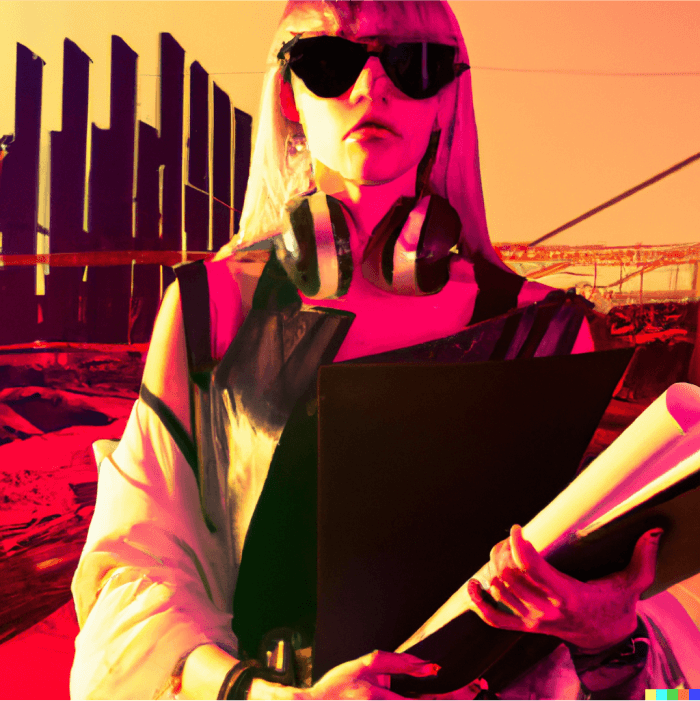
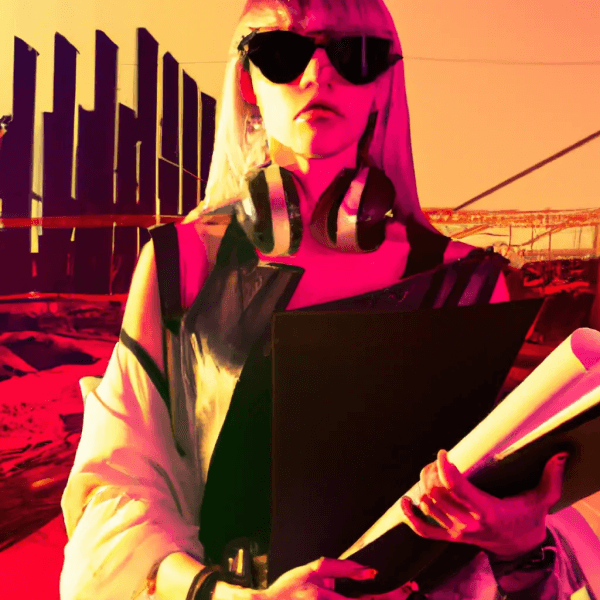
Swaps AI image for main spotlight image on Homepage and removes watermarks from all AI images

diff --git a/src/components/About.jsx b/src/components/About.jsx
@@ -7,6 +7,8 @@ import email_icon from "../img/email_icon.svg";
 import my_email from "../img/my_email.svg";
 import short_t from "../img/short_t.svg";
 import { Link } from "react-router-dom";
+import { isMobile } from "../utils";
+import glowing_shadow_portrait from "../img/glowing_shadow_portrait.png";
 
 class SocialButtons extends React.Component {
   constructor(props) {
@@ -93,7 +95,7 @@ class About extends React.Component {
   render() {
     return (
       <div className="about bg-black pb-5 flex-fill w-100">
-        <div style={{height: "3rem"}} />
+        <div style={{ height: "3rem" }} />
         <div className="row d-flex justify-content-center pt-md-5 px-3 pb-5 pb-md-2flex-fill w-100">
           <div className="d-none d-md-block col-6 mb-5 mb-md-0 col-md-6 col-lg-3 mr-lg-4">
             <img
@@ -103,23 +105,40 @@ class About extends React.Component {
             />
           </div>
           <div className="col-12 col-md-6 col-lg-4 d-flex align-items-center">
-            {/*<p>*/}
-            {/*I've worked up and down the product stack, from design research to writing code.*/}
-            {/*</p>*/}
-            {/*<p>*/}
-            {/*I'm a T-shaped product designer. Except my T looks more like this{" "}*/}
-            {/*<span>*/}
-            {/*<img src={short_t} className="img-fluid" />*/}
-            {/*</span>{" "}*/}
-            {/*than this{" "}*/}
-            {/*<span>*/}
-            {/*<img src={tall_t} className="img-fluid" />*/}
-            {/*</span>*/}
-            {/*</p>*/}
-            {/*<p>*/}
-            {/*A short T is nothing to be ashamed of. There are plenty of attractive,*/}
-            {/*young companies out there who gladly hire generalists.*/}
-            {/*</p>*/}
+            {/*<div className={`row d-flex align-items-center justify-content-around flex-fill w-100 ${*/}
+                {/*isMobile() ? "pt-5 mt-3" : "h-100"*/}
+              {/*}`}*/}
+            {/*>*/}
+              {/*<div className={`col-md-7`}>*/}
+                {/*<img*/}
+                  {/*src={glowing_shadow_portrait}*/}
+                  {/*style={{ maxWidth: "100%" }}*/}
+                {/*/>*/}
+              {/*</div>*/}
+              {/*<div className={`col-md-5 ${isMobile() ? "mt-5 pt-3" : ""}`}>*/}
+                {/*<div className="my-auto text-light px-4 mr-md-5">*/}
+                  {/*<h1 className="mb-0">*/}
+                    {/*<span className="text-nowrap page-header">*/}
+                      {/*Product designer*/}
+                    {/*</span>{" "}*/}
+                    {/*<span className="text-white"> +</span>*/}
+                  {/*</h1>{" "}*/}
+                  {/*<h1 className="mb-0 mb-md-3 page-header">*/}
+                    {/*Journalism survivor*/}
+                  {/*</h1>{" "}*/}
+                  {/*<h3 className="mt-3 text-gray">*/}
+                    {/*<div className="mb-2">*/}
+                      {/*<span>Interaction design | </span>*/}
+                      {/*<span className="text-nowrap">Systems design | </span>*/}
+                    {/*</div>*/}
+                    {/*<div>*/}
+                      {/*<span className="">Information architecture | </span>*/}
+                      {/*<span className="">Javascript </span>*/}
+                    {/*</div>*/}
+                  {/*</h3>*/}
+                {/*</div>*/}
+              {/*</div>*/}
+            {/*</div>*/}
 
             <div className="d-flex flex-column text-white">
               <p className="pt-5 p-md-0 mt-1">
@@ -129,9 +148,8 @@ class About extends React.Component {
                   className="rounded-lg float-left mr-3 d-md-none pt-2 p-md-0"
                   style={{ width: "45%" }}
                 />
-                <div>I never identified as a technical person.</div>
-                I was a humanities guy – obsessed with French and
-                Spanish.
+                <div>I never identified as a technical person.</div>I was a
+                humanities guy – obsessed with French and Spanish.
               </p>
               <p>
                 And then I realized JavaScript is just a language – a way to

diff --git a/src/components/Homepage.jsx b/src/components/Homepage.jsx
@@ -6,6 +6,7 @@ import { isMobile } from "../utils";
 import salamander from '../img/salamander.png';
 import { Link } from 'react-router-dom';
 import sad_worker from '../img/sad_worker.png';
+import survivor from '../img/survivor.png';
 
 const BIG_TEXT_STYLE = { lineHeight: "1rem" };
 class HomePage extends React.Component {
@@ -22,8 +23,8 @@ class HomePage extends React.Component {
               isMobile() ? "pt-5 mt-3" : "h-100"
             }`}
           >
-            <div className={`col-md-7`}>
-              <img src={glowing_shadow_portrait} style={{ maxWidth: "100%" }} />
+            <div className={`col-md-7 d-flex justify-content-center`}>
+              <img src={survivor} style={{ maxWidth: "100%" }} className="img-rounded" />
             </div>
             <div className={`col-md-5 ${isMobile() ? "mt-5 pt-3" : ""}`}>
               <div className="my-auto text-light px-4 mr-md-5">

diff --git a/src/stylesheets/base.scss b/src/stylesheets/base.scss
@@ -10,7 +10,7 @@ body {
 }
 
 .img-rounded {
-  border-radius: 5px;
+  border-radius: 8px;
 }
 
 .fade-enter {
